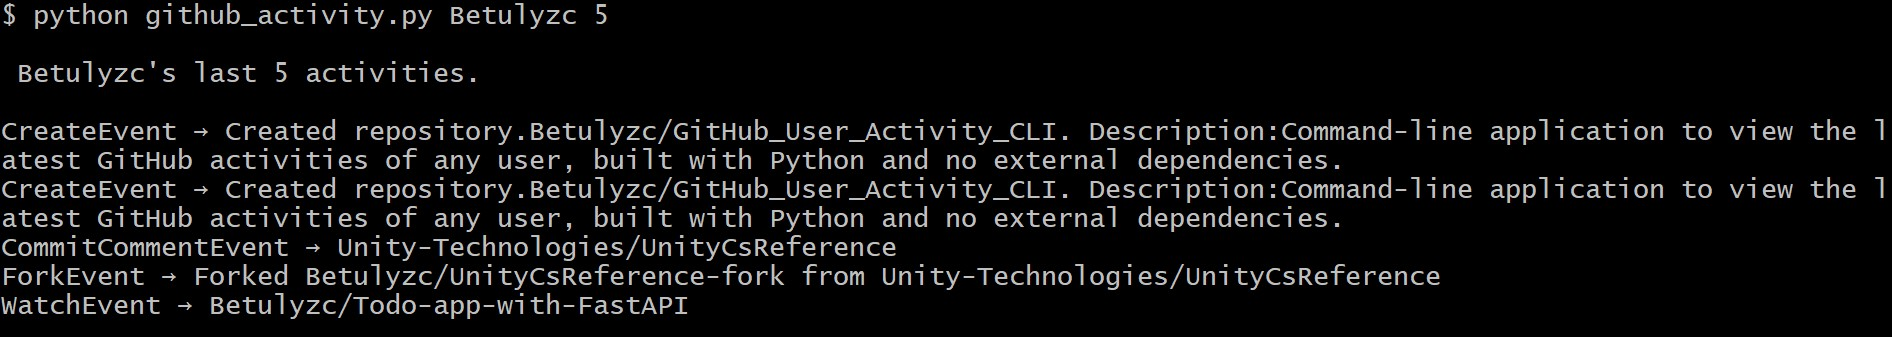
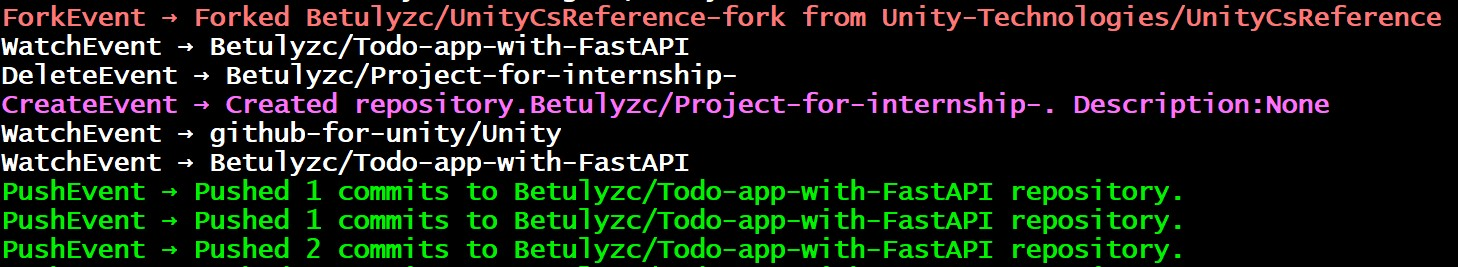
Add colored terminal output and update README to reflect changes

diff --git a/github_activity.py b/github_activity.py
@@ -2,8 +2,20 @@ import sys
 import urllib.request
 import urllib.error
 import json 
+import subprocess
 
-if len(sys.argv) !=3:
+try:
+    import colorama
+except ImportError:
+    print("colorama is not found, loading... ")
+    subprocess.check_call([sys.executable, "-m","pip","install","colorama"])
+    import colorama
+
+from colorama import Style, init, Fore
+
+init(autoreset=True)
+
+if len(sys.argv) != 3:
     print("Usage: python github_activity.py <GitHubUserName> <numberofActivitie>")
     sys.exit(1)
 
@@ -34,33 +46,48 @@ if not data:
 if len(data)>=num_act_whichWant:
     print(f"\n {username}'s last {num_act_whichWant} activities.\n")
 if len(data)<num_act_whichWant:
-    print(f"\n {username}: You can currently see {len(data)} activities in the system. There are less than {num_act_whichWant} records in the system. \n")
+    print(f"\n{username} has only {len(data)} visible activities (maximum is 30 per request). Requested {num_act_whichWant}, but GitHub API returns a maximum of 30.\n")
     num_act_whichWant=len(data)
 
 
 for event in data[:num_act_whichWant]:
     event_type=event["type"]
     event_repo_name=event["repo"]["name"]
+    
+    
+    if event_type == "PushEvent":
+        color = Fore.GREEN + Style.BRIGHT
+    elif event_type == "PullRequestEvent":
+        color = Fore.CYAN + Style.BRIGHT
+    elif event_type == "IssueCommentEvent":
+        color = Fore.YELLOW + Style.BRIGHT
+    elif event_type == "CreateEvent":
+        color = Fore.MAGENTA + Style.BRIGHT
+    elif event_type == "ForkEvent":
+        color= Fore.LIGHTRED_EX + Style.BRIGHT
+    else:
+        color = Fore.WHITE+ Style.BRIGHT
+
 
     if event_type == "PushEvent":
         commit_count=len(event['payload']['commits'])
-        print(f"{event_type} → Pushed {commit_count} commits to {event_repo_name} repository.")
+        print(f"{color}{event_type} → Pushed {commit_count} commits to {event_repo_name} repository.")
 
     elif event_type == "PullRequestEvent":
-        print(f"{event_type} → Pull Requested sent {event_repo_name}")
+        print(f"{color}{event_type} → Pull Requested sent {event_repo_name}")
     
     elif event_type == "CreateEvent":
         description = event['payload'].get('description', 'No description')
-        print(f"{event_type} → Created repository.{event_repo_name}. Description:{description}")
+        print(f"{color}{event_type} → Created repository.{event_repo_name}. Description:{description}")
 
     elif event_type == "ForkEvent":
         forked_repo = event['payload']['forkee']['full_name']
-        print(f"{event_type} → Forked {forked_repo} from {event_repo_name}")
+        print(f"{color}{event_type} → Forked {forked_repo} from {event_repo_name}")
 
     elif event_type == "IssueCommentEvent":
-        print(f"{event_type} → Issue comment sent {event_repo_name} and is {event['payload']['issue']['state']}. ")
-        print(f"      Issue title: {event['payload']['issue']['title']} -> ({event['payload']['comment']['body']})")
+        print(f"{color}{event_type} → Issue comment sent {event_repo_name} and is {event['payload']['issue']['state']}. ")
+        print(f"      {color}Issue title: {event['payload']['issue']['title']} -> ({event['payload']['comment']['body']})")
 
     else:
-        print(f"{event_type} → {event_repo_name}")
+        print(f"{color}{event_type} → {event_repo_name}")
 

diff --git a/README.md b/README.md
@@ -1,12 +1,17 @@
 # GitHub User Activity CLI
 This command-line interface (CLI) application fetches and displays the recent public activity of a given GitHub user using the GitHub API. It is a simple and lightweight tool written in Python, with no external dependencies.
 
+- Written in Python using only built-in modules and [colorama](https://pypi.org/project/colorama/) for colored terminal output.  
+- Automatically installs `colorama` on first run if not already installed.
+
 ---
 
 ##  Features
 - Fetches the most recent public activity of any GitHub user.
 - No third-party libraries required — uses Python’s built-in `urllib` and `json` modules.
 - Allows customization of how many recent events to display.
+- Adds color to the terminal output with `colorama`
+- Auto-installs `colorama` if missing (no setup required)
 - Provides detailed output for key activity types such as `Push`, `Pull Request`, `Issue Comment`,`Fork` and `Create`. Other events are shown with their type and associated repository.
 - Handles errors gracefully, including invalid usernames, API rate limits, connection problems, and users with no recent activity.
 
@@ -33,8 +38,9 @@ Argument	            Description
 - PullRequestEvent: Indicates when a pull request is opened
 - CreateEvent: Describes newly created repositories or branches
 - IssueCommentEvent: Displays issue comment details
+- ForkEvent: Indicates a repository was forked
 - Others: Displayed in a general format
-
+ 
 
 ## 📸 Example Output
 
